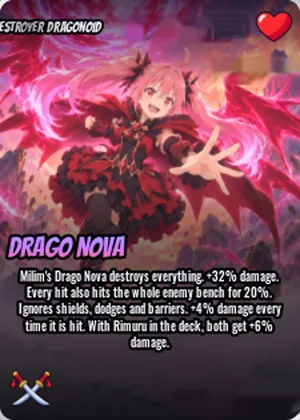
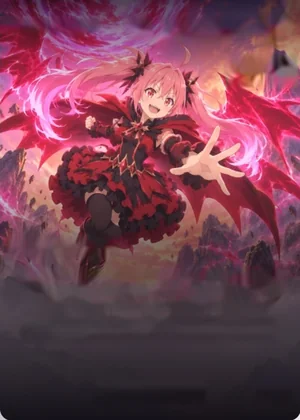
Redraw round 1: 10 cards from the owner's Index captures (?v=61)
- Atomic Shadow Lord, No-Life King, Dragon God, Dragon Emperor Monarch,
  Destroyer Dragonoid, Primordial Butler Demon, Hypnosis Traitor,
  Moon Eye Ghost, Beast Emperor, Rabbit Goddess: fully erased pictures,
  exact game text, "redraw": true (6 already-done cards skipped)
- Thai lines for the new sentences; matchup_sim reads the new wording
- White Hawk Godhand + 3 supports checked against the game for next round

Claude-Session: https://claude.ai/code/session_0143eLgwaHPToVyaTsFB2VYe

diff --git a/index.html b/index.html
@@ -74,18 +74,18 @@
       fit(); addEventListener("resize", fit);
     })();
   </script>
-  <link rel="stylesheet" href="css/tokens.css?v=60">
-  <link rel="stylesheet" href="css/base.css?v=60">
-  <link rel="stylesheet" href="css/fx.css?v=60">
-  <link rel="stylesheet" href="css/cards.css?v=60">
-  <link rel="stylesheet" href="css/tier.css?v=60">
-  <link rel="stylesheet" href="css/deck.css?v=60">
-  <link rel="stylesheet" href="css/support.css?v=60">
-  <link rel="stylesheet" href="css/grade.css?v=60">
-  <link rel="stylesheet" href="css/tiermaker.css?v=60">
-  <link rel="stylesheet" href="css/detail.css?v=60">
-  <link rel="stylesheet" href="css/traits.css?v=60">
-  <link rel="stylesheet" href="css/home.css?v=60">
+  <link rel="stylesheet" href="css/tokens.css?v=61">
+  <link rel="stylesheet" href="css/base.css?v=61">
+  <link rel="stylesheet" href="css/fx.css?v=61">
+  <link rel="stylesheet" href="css/cards.css?v=61">
+  <link rel="stylesheet" href="css/tier.css?v=61">
+  <link rel="stylesheet" href="css/deck.css?v=61">
+  <link rel="stylesheet" href="css/support.css?v=61">
+  <link rel="stylesheet" href="css/grade.css?v=61">
+  <link rel="stylesheet" href="css/tiermaker.css?v=61">
+  <link rel="stylesheet" href="css/detail.css?v=61">
+  <link rel="stylesheet" href="css/traits.css?v=61">
+  <link rel="stylesheet" href="css/home.css?v=61">
 </head>
 <body>
   <!-- Icons, crest and ornaments: drawn for this site (no game art), used with <use href="#…"> -->
@@ -863,24 +863,24 @@
     </section>
   </div>
 
-  <script src="js/i18n.js?v=60"></script>
-  <script src="js/i18n-th-ui.js?v=60"></script>
-  <script src="js/i18n-th-sk1.js?v=60"></script>
-  <script src="js/i18n-th-sk2.js?v=60"></script>
-  <script src="js/fx.js?v=60"></script>
-  <script src="js/app.js?v=60"></script>
-  <script src="js/deckbuff.js?v=60"></script>
-  <script src="js/teamscore.js?v=60"></script>
-  <script src="js/share.js?v=60"></script>
-  <script src="js/cards.js?v=60"></script>
-  <script src="js/detail.js?v=60"></script>
-  <script src="js/tier.js?v=60"></script>
-  <script src="js/deck.js?v=60"></script>
-  <script src="js/support.js?v=60"></script>
-  <script src="js/grade.js?v=60"></script>
-  <script src="js/traits.js?v=60"></script>
-  <script src="js/home.js?v=60"></script>
-  <script src="js/tiermaker.js?v=60"></script>
+  <script src="js/i18n.js?v=61"></script>
+  <script src="js/i18n-th-ui.js?v=61"></script>
+  <script src="js/i18n-th-sk1.js?v=61"></script>
+  <script src="js/i18n-th-sk2.js?v=61"></script>
+  <script src="js/fx.js?v=61"></script>
+  <script src="js/app.js?v=61"></script>
+  <script src="js/deckbuff.js?v=61"></script>
+  <script src="js/teamscore.js?v=61"></script>
+  <script src="js/share.js?v=61"></script>
+  <script src="js/cards.js?v=61"></script>
+  <script src="js/detail.js?v=61"></script>
+  <script src="js/tier.js?v=61"></script>
+  <script src="js/deck.js?v=61"></script>
+  <script src="js/support.js?v=61"></script>
+  <script src="js/grade.js?v=61"></script>
+  <script src="js/traits.js?v=61"></script>
+  <script src="js/home.js?v=61"></script>
+  <script src="js/tiermaker.js?v=61"></script>
 </body>
 </html>
 

diff --git a/js/i18n-th-sk2.js b/js/i18n-th-sk2.js
@@ -330,5 +330,17 @@ I18N.addSK({
  "Mutation bonus": "โบนัสกลายพันธุ์",
  "Spirit Medium Granny's barrier talismans guard your WHOLE deck": "เครื่องรางบาเรียของ Spirit Medium Granny ปกป้องทั้งเด็ค",
  "the supported card protects your whole deck: only the card that is attacked takes damage (no splash, card-behind or bench hits) and takes #% less damage.": "การ์ดที่ซัพพอร์ตปกป้องทั้งเด็ค: เฉพาะการ์ดที่โดนโจมตีเท่านั้นที่รับดาเมจ (ไม่โดนดาเมจกระจาย ไม่โดนตีใบหลัง ไม่โดนตีม้านั่ง) และรับดาเมจน้อยลง #1%",
- "+#% damage and max HP.": "+#1% ดาเมจและ HP สูงสุด"
+ "+#% damage and max HP.": "+#1% ดาเมจและ HP สูงสุด",
+ "Atomic Shadow Lord rules from the shadows.": "Atomic Shadow Lord ปกครองจากเงามืด",
+ "Its first hit of the fight also hits the whole enemy bench for #% of that hit.": "การตีครั้งแรกของการต่อสู้จะโจมตีแถวสำรองศัตรูทั้งหมดด้วย #1% ของการตีนั้น",
+ "No-Life King releases every soul he has consumed.": "No-Life King ปลดปล่อยทุกวิญญาณที่เขากลืนกิน",
+ "Dragon God, the strongest in the world.": "Dragon God ผู้แข็งแกร่งที่สุดในโลก",
+ "#% chance to strike back when hit.": "โอกาส #1% สวนกลับเมื่อถูกตี",
+ "Dragon Emperor Monarch's dragon fear.": "ความกลัวมังกรของ Dragon Emperor Monarch",
+ "Destroyer Dragonoid's Drago Nova destroys everything.": "Drago Nova ของ Destroyer Dragonoid ทำลายทุกสิ่ง",
+ "With Slime Demon Lord in your deck, both get +#% damage.": "เมื่อมี Slime Demon Lord ในเด็คของคุณ ทั้งคู่ได้ +#1% ดาเมจ",
+ "Primordial Butler Demon's world of temptation.": "โลกแห่งการล่อลวงของ Primordial Butler Demon",
+ "Hypnosis Traitor's perfect hypnosis.": "การสะกดจิตอันสมบูรณ์แบบของ Hypnosis Traitor",
+ "Beast Emperor can't die.": "Beast Emperor ตายไม่ได้",
+ "Rabbit Goddess is the origin of chakra.": "Rabbit Goddess คือต้นกำเนิดของจักระ"
 });

diff --git a/tools/matchup_sim.py b/tools/matchup_sim.py
@@ -76,7 +76,7 @@ def one(a, s):
         elif g(r"Ignores (the enemy's )?shields, dodges and barriers"): a["ignore"] = True
         elif g(r"Its attacks can't be dodged"): a["undodgeable"] = True
         elif g(r"Every hit also hits the whole enemy bench for " + F + r"%( of its normal hit \(no crits or bonuses\))?"): a["bench"] = float(m[1]) / 100
-        elif g(r"Its first attack also hits the whole enemy bench for " + F + "%"): a["bench_first"] = float(m[1]) / 100
+        elif g(r"Its first (?:attack|hit of the fight) also hits the whole enemy bench for " + F + "%( of that hit)?"): a["bench_first"] = float(m[1]) / 100
         elif g(r"Every enemy card starts with " + F + "% less damage"): a["enemy_less"] = float(m[1]) / 100
         elif g(r"Every (\d)\w\w attack also hits the card behind for " + F + r"%( of its normal hit \(no crits or bonuses\))?"): a["behind"] = (int(m[1]), float(m[2]) / 100)
         elif g(r"Comes back once with " + F + "% HP"): a["revive"] = float(m[1]) / 100
@@ -115,7 +115,7 @@ def one(a, s):
         elif g(F + r"% chance per hit to Freeze the enemy for (\d+) turns? \(frozen cards take 25% more damage\)"): a["freeze"] = (float(m[1]) / 100, int(m[2]))
         elif g(F + r"x damage against frozen enemies"): a["vs_frozen"] = float(m[1])
         elif g(F + r"% chance per hit to Seal the enemy's ability for (\d+) turns( \(bosses: \d+ turns?\))?"): a["seal_chance"] = (float(m[1]) / 100, int(m[2]))
-        elif g(F + r"% chance to counter-attack when hit"): a["counter"] = float(m[1]) / 100
+        elif g(F + r"% chance to (?:counter-attack|strike back) when hit"): a["counter"] = float(m[1]) / 100
         elif g(r"Blocks the first (\d+) hits completely"): a["block"] = int(m[1])
         elif g(F + r"% chance to crit for " + F + "x damage"): a["crit"] = (float(m[1]) / 100, float(m[2]))
         elif g(r"Every hit sets the whole enemy deck on fire for (\d+) turns?"): a["fire"] = int(m[1])

diff --git a/PROGRESS.md b/PROGRESS.md
@@ -29,18 +29,18 @@
 6. **ทุกหน้าต้องได้มาตรฐานเดียวกัน** ก่อนบอกว่าเสร็จ ต้องผ่าน **§4.1 Definition of Done** ทุกข้อ ถึงเจ้าของจะพิมพ์มาไม่ครบก็ต้องทำ (เช่น ต้องมีอนิเมชั่นทุกหน้า)
 7. **1 งาน = 1 แชทใหม่** ใช้ prompt สั้นจาก ▶ / §7 · (ใช้ **Claude Code** = Claude อ่านไฟล์จาก repo เอง + commit/เปิด pull request ให้ ข้อที่เหลือของกฎนี้ใช้กับแชท claude.ai) · **แนบ `PROGRESS.md` ไปในแชทเสมอ (หรืออัปเดตใน Project knowledge) · ห้ามให้ Claude อ่านไฟล์จากลิงก์ GitHub** (ได้ฉบับเก่าค้างแคช · เช็ค 2026-10-25 ได้ฉบับขั้น 2) · ไฟล์โค้ดที่ต้องใช้ให้ Claude บอกรายชื่อแล้วเจ้าของแนบให้ · เจ้าของต้องอัป `PROGRESS.md` (+ `HISTORY.md`) ขึ้น GitHub ทุกครั้งหลังจบงาน ไม่งั้นแชทถัดไปอ่านของเก่า · **อย่ารัน 2 แชทที่แก้ PROGRESS.md พร้อมกัน** (เคยทับกันมาแล้ว)
 8. ห้ามอ่านโค้ดทั้ง repo โดยไม่จำเป็น อ่านเฉพาะไฟล์ที่งานนั้นใช้
-9. **เลขเวอร์ชันท้ายไฟล์:** `index.html` โหลด CSS/JS แบบ `css/base.css?v=13` (กันมือถือใช้ไฟล์เก่าค้าง "Loading…") · แก้ CSS/JS ไฟล์ไหนก็ตาม → เปลี่ยน `?v=` **ทุกบรรทัด**เป็นเลขใหม่ (ตอนนี้ `60` · ครั้งถัดไป `61`) ไฟล์ใหม่ก็ใส่เลขด้วย แล้วบอกให้อัป `index.html` ด้วยทุกครั้ง · ไอคอนเว็บใช้เลขแยก (`?v=2`, §3)
+9. **เลขเวอร์ชันท้ายไฟล์:** `index.html` โหลด CSS/JS แบบ `css/base.css?v=13` (กันมือถือใช้ไฟล์เก่าค้าง "Loading…") · แก้ CSS/JS ไฟล์ไหนก็ตาม → เปลี่ยน `?v=` **ทุกบรรทัด**เป็นเลขใหม่ (ตอนนี้ `61` · ครั้งถัดไป `62`) ไฟล์ใหม่ก็ใส่เลขด้วย แล้วบอกให้อัป `index.html` ด้วยทุกครั้ง · ไอคอนเว็บใช้เลขแยก (`?v=2`, §3)
 10. **ห้ามก๊อปไฟล์จากเกม** (ไฟล์ฟอนต์, ไฟล์ UI/กรอบ/ป้าย, ไอคอน, โลโก้, เพลงประกอบ) — ติดลิขสิทธิ์ · กรอบ/ป้าย/ตัวเลขของการ์ดแบบในเกม **วาดเองด้วย CSS** (SVG/canvas ได้) ให้หน้าตาใกล้เคียงเกม + ใช้ **Google Font ที่คล้าย** (ตัวเลข Oswald · ป้าย Bangers) · รูปการ์ดใช้รูปที่ลบตัวเลขแล้ว (§3.5) · ภาพหน้าจอเกมใช้ดูอ้างอิงได้ แต่ไม่ใส่ในเว็บ · **ข้อยกเว้น (เจ้าของตัดสินใจเอง 2026-10-26 หลังรับรู้ความเสี่ยงลิขสิทธิ์):** ฉากหลังหน้าดูการ์ด W7 รอบ 2 ใช้รูปที่เจ้าของตัดจากฉากเปิดเกม Silver Palace (`images/silver/` · รวมรูปแนวตั้งสำหรับมือถือ `images/silver/portrait-src/` ที่เจ้าของส่งมา 2026-10-27 สำหรับ W9) · ถ้าเกมขอให้ลบ = ลบ `images/silver/` แล้วกลับไปใช้ฉาก W7 รอบ 1 จาก git (commit `ce91804` · รูป `images/scene/` ลบออกจาก repo แล้วตอนรอบ 2)
 11. ระบบเดิมห้ามเปลี่ยนโดยไม่ถาม: route, localStorage keys (§3.4), ลิงก์แชร์, ไฟล์สำรอง, เกรด, Tier Maker · หน้าใหม่ใช้ของกลางธีมใน §3.3 ห้ามใช้สีฟ้า/ม่วงแบบธีมเก่า
 
 ## ▶ ขั้นถัดไป (เจ้าของ copy ไปวางในแชทใหม่)
-**🎴 กฎตัดภาพใหม่ "เขียนใหม่ทั้งใบ" (เจ้าของสั่ง 2026-11-02 · ① ตัวอย่าง ✅ · **สเปกล็อกแล้ว 2026-11-02** · ② เว็บจริง ✅ 2026-11-02 `?v=60` · ⏳ ③ ทีละรอบ: ทำแล้ว 12 ใบ):** ลบ**ทุกอย่าง**ออกจากรูป (ชื่อการ์ด, HP + หัวใจ, ป้าย 1 IN X, ชื่อสกิล, คำอธิบาย, ดาบคู่, ATK, ×N) → เว็บเขียนใหม่ทั้งหมดเป็นตัวอักษรจริง · ต้นแบบที่ต้องลอก: `mockup/card-redraw.html` (ค่าเริ่มต้นในหน้า = ตัวเลือกเจ้าของ · CSS `.card` / `.r-*` + `fit()` ใช้ได้ตรงๆ)
+**🎴 กฎตัดภาพใหม่ "เขียนใหม่ทั้งใบ" (เจ้าของสั่ง 2026-11-02 · ① ตัวอย่าง ✅ · **สเปกล็อกแล้ว 2026-11-02** · ② เว็บจริง ✅ 2026-11-02 `?v=60` · ⏳ ③ ทีละรอบ: ทำแล้ว 22 ใบ):** ลบ**ทุกอย่าง**ออกจากรูป (ชื่อการ์ด, HP + หัวใจ, ป้าย 1 IN X, ชื่อสกิล, คำอธิบาย, ดาบคู่, ATK, ×N) → เว็บเขียนใหม่ทั้งหมดเป็นตัวอักษรจริง · ต้นแบบที่ต้องลอก: `mockup/card-redraw.html` (ค่าเริ่มต้นในหน้า = ตัวเลือกเจ้าของ · CSS `.card` / `.r-*` + `fit()` ใช้ได้ตรงๆ)
 - **ตัวเลือกเจ้าของ:** ฟอนต์ **Anton** (ชื่อการ์ด, ชื่อสกิล, HP, ATK, ป้าย) + คำอธิบาย **Oswald 500** · **ชื่อชิดซ้าย / HP ชิดขวา ฝั่งละไม่เกินครึ่งการ์ด ตายตัว** (ช่องกลาง 3cqw) · ชื่อยาวเกินครึ่ง = ย่อถึง 5cqw แล้ว**ขึ้น 2 บรรทัด** · ช่องไฟขอบ **3.6cqw** ทุกด้าน · ลบพื้นหลังแบบ **FSR_BEST** · **ไม่มีแถบมืด** ใช้ขอบดำ .75cqw (ชั้น `::before` ใต้ตัวไล่สี) + **เงานุ่มรอบตัวอักษร** · **ตัวเลขในคำอธิบายสีทอง** `#ffcf5a` · แสงวิ่งเปิด (Shiny ขึ้นไป · reduced motion ปิด) · เรืองรอบการ์ดเปิด · การ์ดกว้าง < 170px **ซ่อนคำอธิบาย** · **ไม่แสดง ×N**
 - **กติกาอื่น:** HP ต่ำกว่า 1B เขียนเต็มมีจุลภาค (**ทั้งเว็บ**) · ตั้งแต่ 1B ย่อ B/T/Qd/Qi (ทศนิยม 1 · 100 ขึ้นไปไม่มี) · ATK เต็มเสมอ · ชื่อการ์ด**สีตามระดับ** + กรอบ + ป้ายระดับ = สีที่ดูดจากแคปเกม 9 ระดับ (`.r-*` ใน mockup · Normal ไม่มีป้ายระดับ) · ทุกอย่างอยู่ในขอบการ์ด · หัวใจ/ดาบ = SVG วาดเอง · เปลี่ยนระดับ = แฟลช + นับ 650ms (วัดขนาดจากเลขที่ยาวกว่า) · ทุกขนาดใช้หน่วย cqw
 - **รูป:** ตัดจากหน้า Index (2400×1080 · x 527–973 y 228–848 → 600×840) หรือหน้า Deck (x 899–1501 y 121–959 · ชัดกว่า · Support) · **ใช้แคประดับไหนก็ได้** (ลบทุกอย่างอยู่แล้ว · ห้ามมีป้ายประกาศ/ดาวลอยบังการ์ด) · เครื่องมือ **`python3 tools/erase_all.py <id>=<รูป> … [--crop index|deck] [--rar] [--out <โฟลเดอร์>] --sheet <scratchpad>/sheet.jpg`** (การ์ด + Support ในตัวเดียว · รู้เองจาก id · หลายใบรันขนานกัน · FSR_BEST ~2–4 นาที/ใบ · `--rar` = แคประดับเหนือ Normal ต้องลบป้ายระดับด้วย · `--out` = เขียนลงโฟลเดอร์ให้ดูก่อน แล้วค่อยก๊อปลง `images/` · เปิด sheet ดูทุกรอบ) · mask: ตัวอักษร = จุดสว่างที่ติดขอบดำของตัวเอง (เสื้อขาว/เกราะทองใต้ข้อความไม่โดน) · ชื่อสกิลยาวไปขวาได้ · HP/ATK 9–10 หลักเริ่มซ้ายกว่าเดิม (ขยายกล่องแล้ว) · ตรงที่ข้อความทับตัวละคร = ภาพเติมเดา
-- **② เว็บจริง ✅ 2026-11-02** (`?v=60` · HISTORY §9) · `"redraw": true` ใน cards.json / support.json (ต้องมี `image`) = รูปไม่มีตัวอักษร + เว็บเขียนทุกอย่าง (`renderRedraw` / `fitRedraw` ใน app.js · `.gc--rd` ใน fx.css · `drawRedraw` ใน share.js รูปแชร์) · ไม่มี = แบบเดิม (`cleanArt` / ค่าบนรูป) · **ทำแล้ว 12 ใบ:** การ์ด Long Hair Invader (ใบแรก · `passive.desc` แก้ตามเกมแล้ว + `exact` ทุกระดับจากแคปเจ้าของ) · Hollow Mask Reaper · Pirate King · Demon God of Flame · Homunculus Father · Made in Heaven Priest · Black Wizard Brother · Pumpkin Sun Pride · Soul Magic Father · Golden Gate King · Control Devil (10 ใบนี้ = แคป Floor 647–678 ที่เจ้าของส่งพร้อมคำสั่ง ② · ข้อความตรงเกมแล้วจาก T2) · Support Hat and Clogs Shopkeeper (รูปจาก mockup · ข้อมูลใหม่ตามเกม)
+- **② เว็บจริง ✅ 2026-11-02** (`?v=60` · HISTORY §9) · `"redraw": true` ใน cards.json / support.json (ต้องมี `image`) = รูปไม่มีตัวอักษร + เว็บเขียนทุกอย่าง (`renderRedraw` / `fitRedraw` ใน app.js · `.gc--rd` ใน fx.css · `drawRedraw` ใน share.js รูปแชร์) · ไม่มี = แบบเดิม (`cleanArt` / ค่าบนรูป) · **ทำแล้ว 12 ใบ:** การ์ด Long Hair Invader (ใบแรก · `passive.desc` แก้ตามเกมแล้ว + `exact` ทุกระดับจากแคปเจ้าของ) · Hollow Mask Reaper · Pirate King · Demon God of Flame · Homunculus Father · Made in Heaven Priest · Black Wizard Brother · Pumpkin Sun Pride · Soul Magic Father · Golden Gate King · Control Devil (10 ใบนี้ = แคป Floor 647–678 ที่เจ้าของส่งพร้อมคำสั่ง ② · ข้อความตรงเกมแล้วจาก T2) · Support Hat and Clogs Shopkeeper (รูปจาก mockup · ข้อมูลใหม่ตามเกม) · **③ รอบ 1 (2026-11-02 · `?v=61`):** Atomic Shadow Lord · No-Life King · Dragon God · Dragon Emperor Monarch · Destroyer Dragonoid · Primordial Butler Demon · Hypnosis Traitor · Moon Eye Ghost · Beast Emperor · Rabbit Goddess (แคป Index Floor 664–687 ที่เจ้าของส่งพร้อมคำสั่ง · `passive.desc` = ข้อความเกมทุกตัวอักษร · ใบที่ทำแล้วในแคปชุดนั้นข้าม)
 - ✅ **เจ้าของตอบ 2026-11-02: "สีชื่อวิ่ง" เฉพาะหน้าดูการ์ด** · "สีชื่อวิ่ง" **เปิดเฉพาะการ์ดในหน้าดูการ์ด** · ในตาราง (Cards, Tier, Deck…) ชื่อนิ่ง (แสงวิ่งบนกรอบยังอยู่ทุกที่) · เหตุผล: สีชื่อวิ่ง = วาดตัวหนังสือใหม่ทุกเฟรม (ไม่ใช่ transform) · การ์ดทดสอบ 60 ใบ Ascended หน้า Cards CPU ×6: เปิดทุกที่ **23 fps** · เปิดเฉพาะหน้าดูการ์ด **51 fps** (ก่อนทำ 36)
-- **③ รอบถัดไป** · Claude Code **Opus 5.5 / high**: `repo Card_Ascension: อ่าน PROGRESS.md (กฎทำงาน + ▶ ข้อ "เขียนใหม่ทั้งใบ" + §3.5.6 + §5.4) แล้วทำรอบเขียนใหม่ถัดไป` · **ของที่รออยู่ใน `inbox/redraw/`** (ตัดแล้ว 600×840 · ระดับ Normal · ยังไม่ลบตัวอักษร): Undead Overlord King · Witch of Envy (ยังไม่เคยเช็คข้อความกับเกม: อ่านจากรูปก่อน) · Storm Dragon · Destroyer God · White Hawk Godhand · Hero Number One + Support Angel Attendant · First Master Fairy · Nine Tails Fox (ตัดจากหน้า Index · Support ใช้ได้ แต่หน้า Deck ชัดกว่า) · **ขั้นตอนต่อใบ:** อ่านข้อความ/ตัวเลขจากรูปเทียบข้อมูล (ต้องตรงเกมทุกตัวอักษร · ชื่อการ์ดแทนชื่อตัวละคร) → `tools/erase_all.py … --out` → ดู sheet → ก๊อปรูป + thumb ลง `images/` → ใส่ `"redraw": true` (ลบ `cleanArt` · Support ลบ `effect.pos`) → ลบรูปออกจาก `inbox/redraw/` · รอบละ ≤ 10 ใบ
+- **③ รอบถัดไป** · Claude Code **Opus 5.5 / high**: `repo Card_Ascension: อ่าน PROGRESS.md (กฎทำงาน + ▶ ข้อ "เขียนใหม่ทั้งใบ" + §3.5.6 + §5.4) แล้วทำรอบเขียนใหม่ถัดไป` · **ของที่รออยู่ใน `inbox/redraw/`** (ตัดแล้ว 600×840 · ระดับ Normal · ยังไม่ลบตัวอักษร): Undead Overlord King · Witch of Envy (ยังไม่เคยเช็คข้อความกับเกม: อ่านจากรูปก่อน) · Storm Dragon · Destroyer God · White Hawk Godhand · Hero Number One + Support Angel Attendant · First Master Fairy · Nine Tails Fox (ตัดจากหน้า Index · Support ใช้ได้ แต่หน้า Deck ชัดกว่า) · **White Hawk Godhand + Support 3 ใบนี้ เช็คกับแคปเกม 2026-11-02 แล้ว ตรงทุกตัวอักษร** (ข้อความ + ตัวเลข + โอกาส) → ทำได้เลย · ข้อความเกมแบบใหม่ที่ยังไม่มีคำแปลไทย ต้องเพิ่มใน `js/i18n-th-sk2.js` (เช็คด้วยประโยคต่อประโยค) + ถ้า `tools/matchup_sim.py --parse --ids …` ขึ้น `unknown` ให้แก้ regex · **ขั้นตอนต่อใบ:** อ่านข้อความ/ตัวเลขจากรูปเทียบข้อมูล (ต้องตรงเกมทุกตัวอักษร · ชื่อการ์ดแทนชื่อตัวละคร) → `tools/erase_all.py … --out` → ดู sheet → ก๊อปรูป + thumb ลง `images/` → ใส่ `"redraw": true` (ลบ `cleanArt` · Support ลบ `effect.pos`) → ลบรูปออกจาก `inbox/redraw/` · รอบละ ≤ 10 ใบ
 - ✅ **HP "ต่ำกว่า 1B ไม่ย่อ" ทั้งเว็บ** ทำแล้วในขั้น ② (`fmtHp` · §3.5.1) · โอกาสหลักพันล้านล้าน = **Qd** แบบเกม (เดิม Qa · `shortNum`)
 - **🟩 Support แบบเขียนใหม่ (เจ้าของเลือก 2026-11-02 · ต้นแบบ `mockup/support-redraw.html` · ตัวอย่าง Hat and Clogs Shopkeeper):** ลบชื่อการ์ด ชื่อสกิล คำอธิบาย คำ SUPPORT ออกจากรูป → เว็บเขียนใหม่ **จัดวางเหมือนเกม** (วัดจากรูปหน้า Deck 600×840: ชื่อการ์ด Anton 4.27cqw caps ที่ 6.67cqw · ชื่อสกิล Anton 7.5cqw caps 79.67 · คำอธิบาย Oswald 500 4.57cqw line-height 1.385 caps บรรทัดแรก 90.5 · กล่องกว้าง 3.85–96.15 สูง 27.7 ยาวเกิน = ย่อ · ตัดคำแบบปกติ ไม่ balance · Mutation บรรทัดใหม่ขนาดเดียวกัน (Normal ไม่มี) · คำ SUPPORT Oswald 700 10.3cqw caps 126 · ตำแหน่งบนคำนวณจาก metric ฟอนต์ `capOff`) · ชื่อการ์ด/ชื่อสกิลเว้นช่องไฟ 3.6cqw ไม่ทับกรอบ · ชื่อไม่เกินครึ่งการ์ด · **ตัวเลขสีทองเฉพาะค่าที่เปลี่ยนตามระดับ** (`{n}` + ค่า Mutation · เลขคงที่ เช่น "next 3 attacks" สีขาว) · **คำ SUPPORT เขียวแบบเกม** · ป้าย 1 IN X + ระดับขวาบนแบบการ์ดโจมตี · การ์ด < 170px ซ่อนคำอธิบาย · รูปตัดได้จากหน้า Deck (กรอบใน x 899–1501 y 121–959 ที่ 2400×1080 · ภาพชัดกว่า Index) · เครื่องมือ `mockup/card-redraw/erase_support.py` (mask ตัวอักษร + เงาดำ · FSR_BEST ~2 นาที) · ตรงที่ข้อความทับตัวละคร = ภาพเติมเดา
 - **📊 ค่า Support ตามระดับ (เจ้าของ + แคปเกม 2026-11-02 · ในเว็บแล้ว 2026-11-02 `?v=60` · ยังรวบรวม knee ใบอื่น):** ตรวจแล้ว 3 ใบ: Nine Tails Fox · Flower Healer Captain · Hat and Clogs Shopkeeper (แคปทุกระดับ)

diff --git a/HISTORY.md b/HISTORY.md
@@ -1821,3 +1821,13 @@
 - **สีชื่อวิ่ง:** เจ้าของเลือกเฉพาะหน้าดูการ์ด (คงตามที่ทำ) · **Tier NTF + HCS:** รอรวมกับรอบอื่น
 - **ทดสอบ:** Angel Attendant (เดิมไม่มี) 0/3/5/8/13/18/25/33/40 · NTF Shiny "+3%" · Normal ไม่มีบรรทัด · หน้า Cards / Grade / Traits / ดูการ์ด ไม่มี error · รูป Deck: บรรทัด Mutation บรรทัดเดียว
 - **ไฟล์:** `js/app.js` · `js/deckbuff.js` · `js/share.js` · `PROGRESS.md` · `HISTORY.md`
+
+### 2026-11-02 ③ รอบเขียนใหม่ 1: การ์ด 10 ใบจากแคป Index Floor 664–687 (`?v=61`)
+- **เจ้าของส่ง 20 แคป** · ซ้ำกับที่ทำแล้ว 6 ใบ = ข้าม (Hollow Mask Reaper, Pirate King, Demon God of Flame, Homunculus Father, Black Wizard Brother, Made in Heaven Priest) · เหลือ 14 → ทำ 10 ใบตามกฎรอบละ ≤ 10: Atomic Shadow Lord · No-Life King · Dragon God · Dragon Emperor Monarch · Destroyer Dragonoid · Primordial Butler Demon · Hypnosis Traitor · Moon Eye Ghost · Beast Emperor · Rabbit Goddess · อีก 4 ใบ (White Hawk Godhand + Support Angel Attendant, First Master Fairy, Nine Tails Fox) มีรูปรออยู่ใน `inbox/redraw/` แล้ว · เช็คข้อความกับแคปแล้วตรงทุกตัว → รอบถัดไป
+- **ข้อมูล:** HP / ATK / โอกาส ทั้ง 10 ใบตรงแคปอยู่แล้ว · `passive.desc` เปลี่ยนเป็นข้อความเกมทุกตัวอักษร (ชื่อการ์ดแทนชื่อตัวละคร · "of its normal hit (no crits or bonuses)" · "Ignores the enemy's shields…" · Confuse "(it skips its next turn and hits itself for half damage)" · "Can't be stunned, frozen, paralyzed, confused, sealed or weakened" · DEM ไฟ "(5% of its max HP per turn)" · Dragon God "strike back" · Rimuru → Slime Demon Lord) · `"redraw": true` · `updated` 2026-11-02
+- **รูป:** `tools/erase_all.py … --crop index --out` (FSR_BEST 98–244 วิ/ใบ) · ดู sheet แล้ว ลบหมดทุกส่วน · ตรงที่ข้อความทับตัวละคร = ภาพเติมเดา (Dragon God หน้าเบลอนิดหน่อยใต้ HP)
+- **คำแปลไทย:** ประโยคใหม่ 12 ประโยคใน `js/i18n-th-sk2.js` (เช็คประโยคต่อประโยค: ไม่มีประโยคไหนขาด)
+- **tools/matchup_sim.py:** regex รับ "strike back when hit" และ "Its first hit of the fight … for X% of that hit" · `--parse` 10 ใบ = เหมือนเดิมทุกค่า (+ `status_immune` ของ Primordial Butler Demon / Beast Emperor ตามข้อความใหม่)
+- **Deck buff (`tools/deckbuff_report.js`):** Destroyer Dragonoid / Primordial Butler Demon อ่านเป็น "Slime Demon Lord" (ชื่อการ์ดจริง · เดิม Rimuru) · ไม่มีชื่อที่ไม่รู้จักเพิ่ม
+- **ทดสอบ (Chromium 390×844):** หน้าดูการ์ด Atomic Shadow Lord / Primordial Butler Demon แบบ EN + TH ขึ้นครบ (ชื่อ 2 บรรทัด, เลขทอง, ไทยครบ) · หน้า Cards มีการ์ดแบบใหม่ 13 ใบในหน้าแรก · ไม่มี error
+- **ไฟล์:** `index.html` (`?v=61`) · `js/i18n-th-sk2.js` · `tools/matchup_sim.py` · `data/cards.json` · `images/cards/` + `thumb/` 10 ใบ · `PROGRESS.md` · `HISTORY.md`
